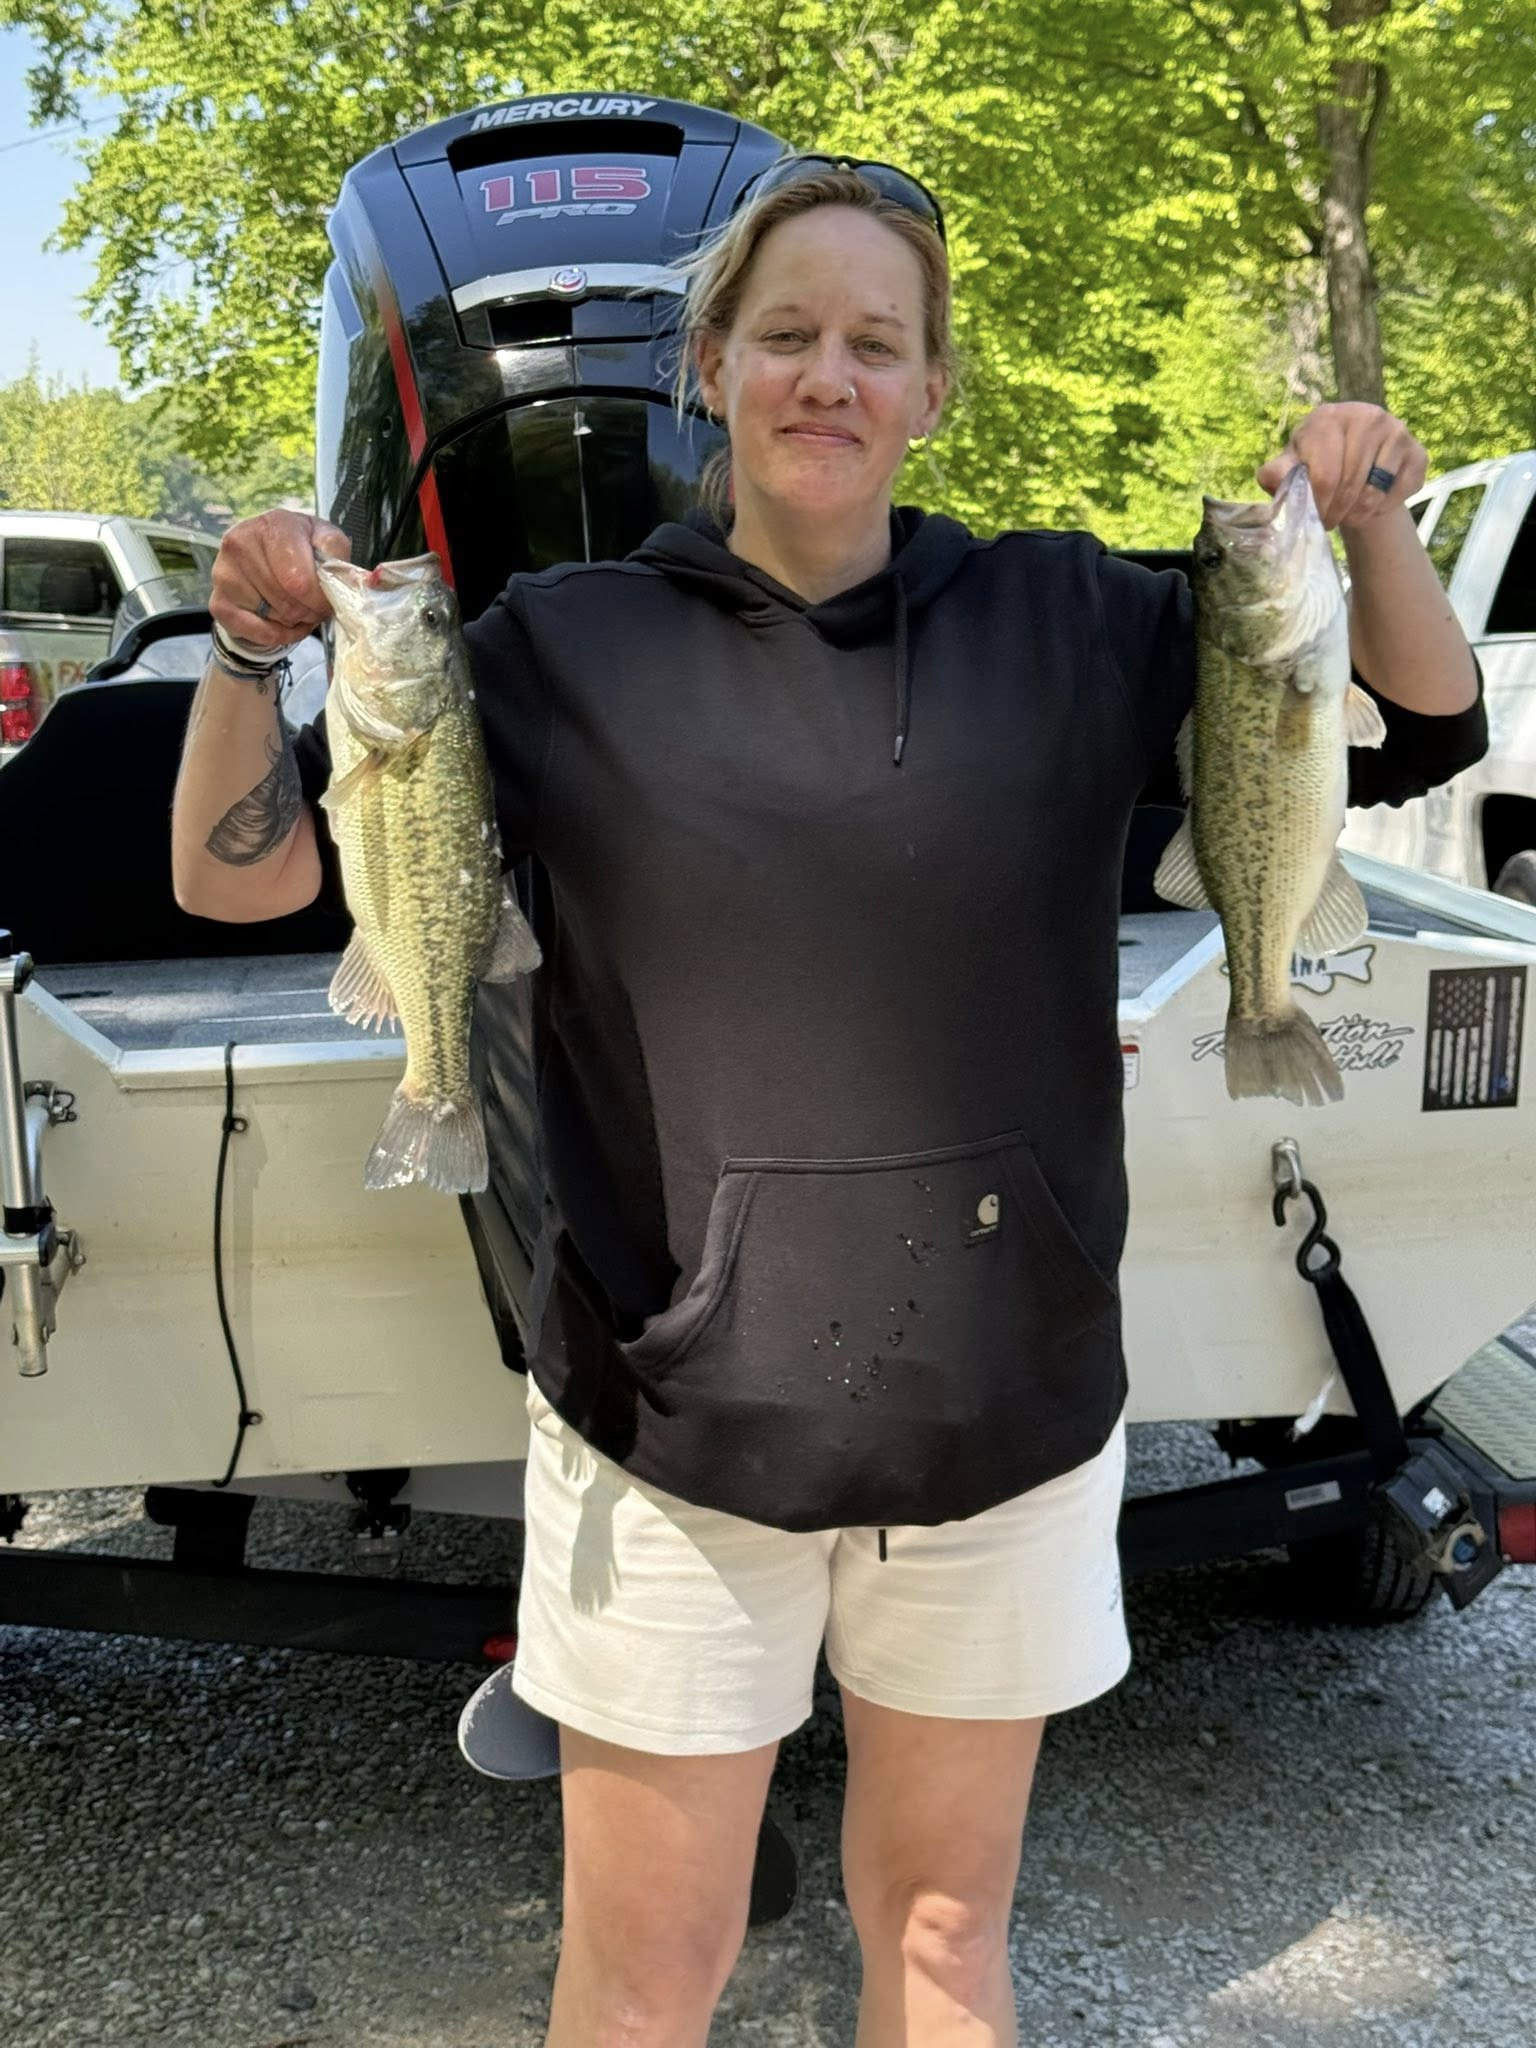
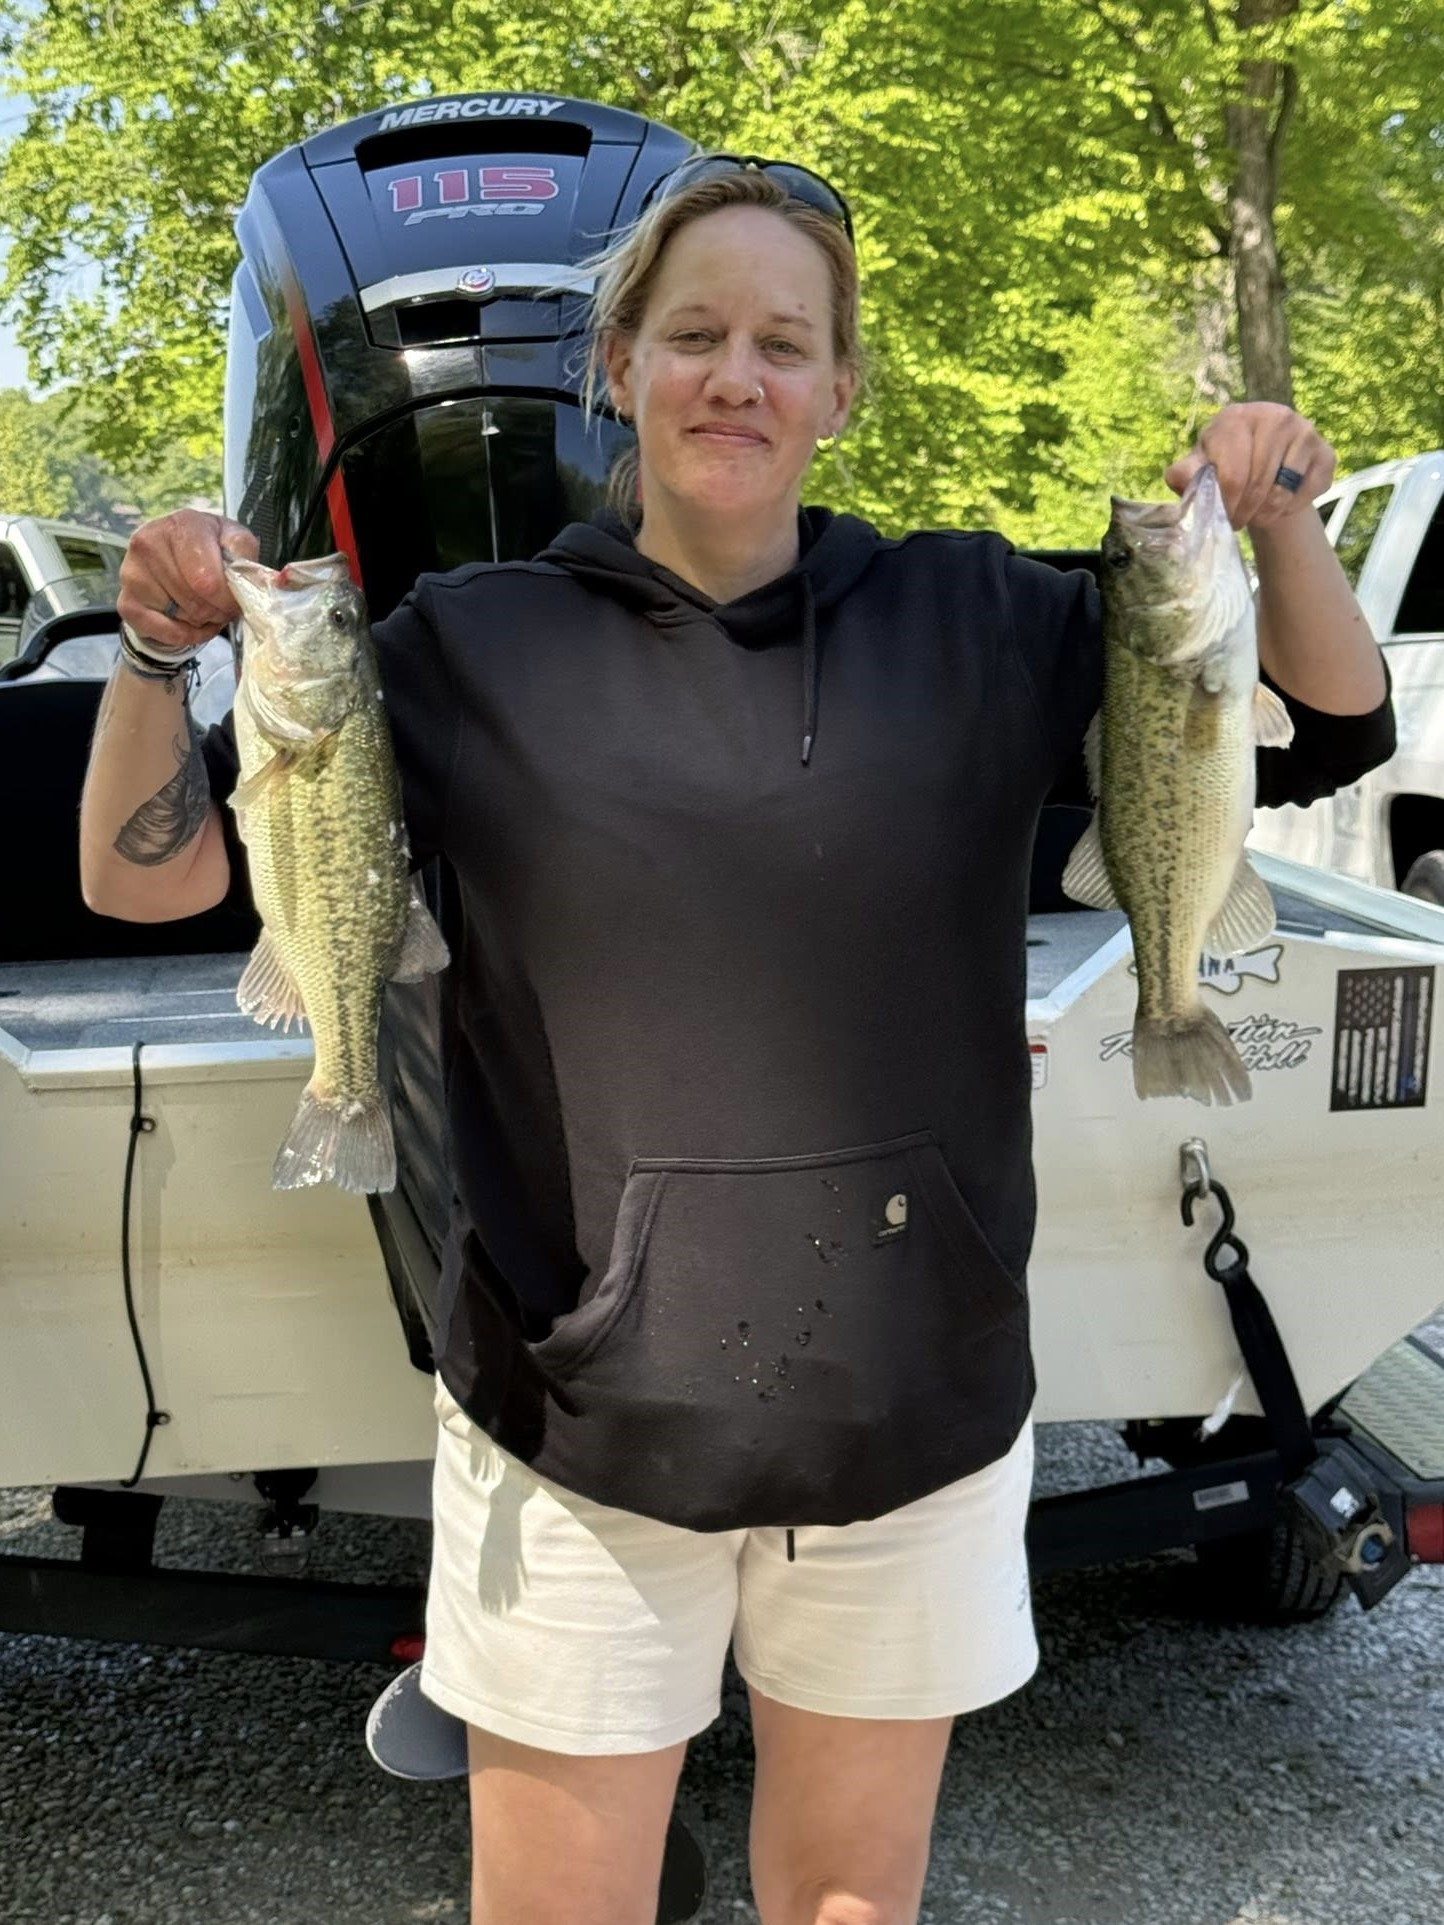
pics

diff --git a/meet-the-indiana-bass-n-gals.html b/meet-the-indiana-bass-n-gals.html
@@ -88,7 +88,7 @@
         <div class="row g-4 feature-grid row-cols-2 row-cols-md-4 row-cols-xl-8">
           <div class="col">
             <article class="feature-card card h-100">
-				<img src="images/bre.jpg" alt="Bre Indiana Bass'N Gals" width="80" class="img-fluid"> 
+				<img src="images/Bre.jpg" alt="Bre Indiana Bass'N Gals" width="80" class="img-fluid"> 
 			   <div class="card-body"> 
 				<h2 class="card-title">Bre - Member</h2>
 			</div> 